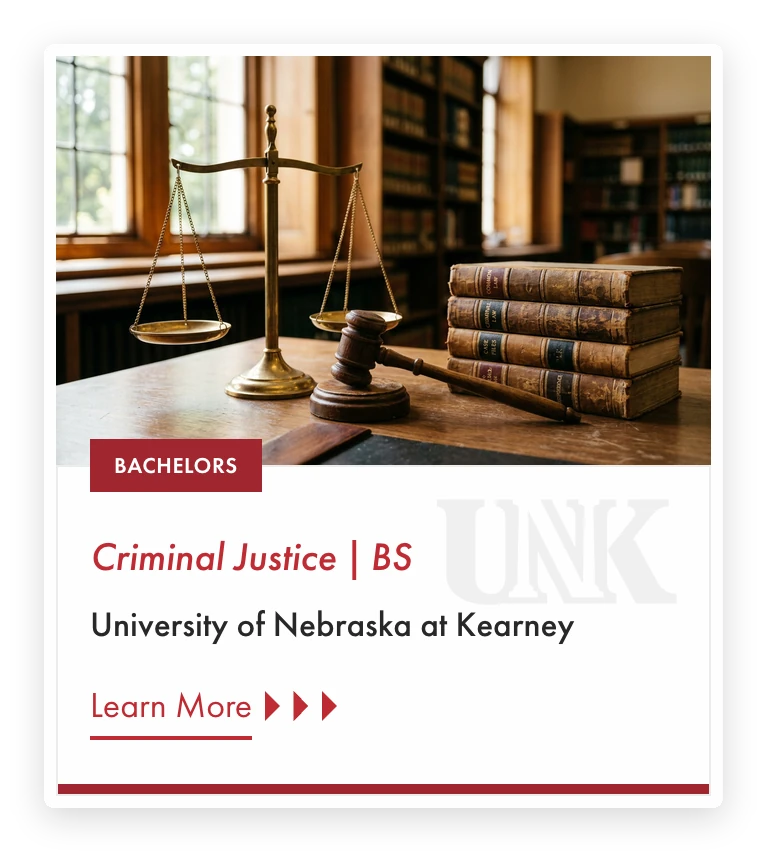
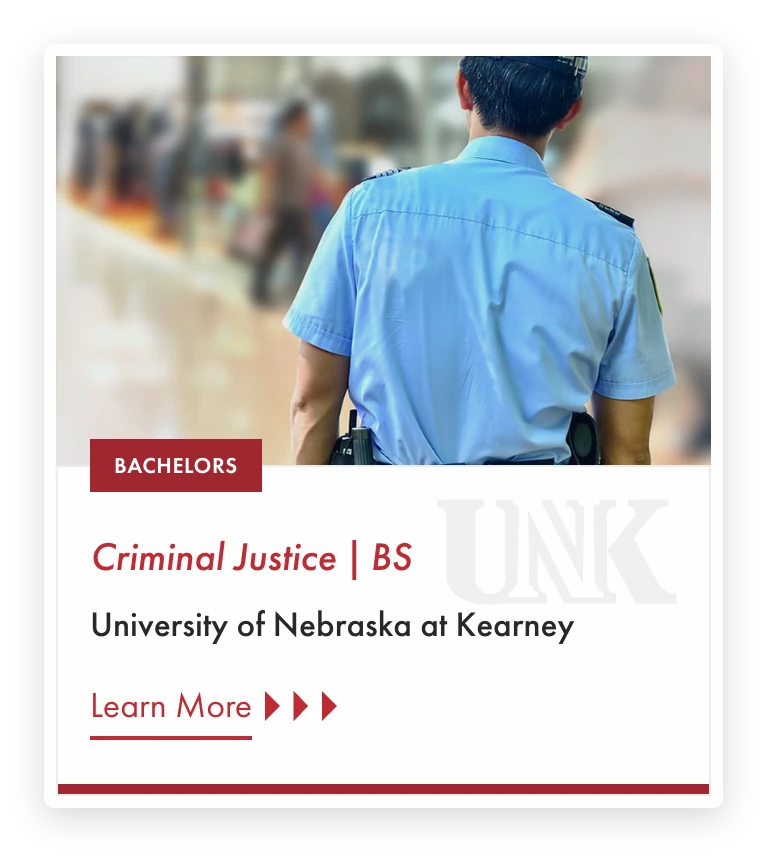
Rework the Helios home card, flatten card hovers, frame NUcleus apps figures
Homepage: the Helios card is now the docs window with the components card
overlapping it. Hero padding trimmed, card images enlarged on wide screens,
and every card takes the secondary-button hover instead of a shadow lift.

NUcleus: Figs 5 and 6 in browser windows, Fig 1 spacing tightened, the
brand-standards sentence revised, Fig 8 rebuilt as the Criminal Justice
before and after, and the course card uses the real program photo.

diff --git a/projects/portfolio/src/app/components/work/nucleus-case-study.html b/projects/portfolio/src/app/components/work/nucleus-case-study.html
@@ -82,7 +82,7 @@
               <span class="text-muted-foreground">Fig 1. UI Audit</span>
               <span class="text-right text-foreground">2017 Era</span>
             </div>
-            <div class="grid gap-4 bg-secondary p-4 md:p-6">
+            <div class="bg-secondary p-2 -space-y-4">
               <img src="assets/work/nucleus-inventory-blocks-a.webp" alt="UI inventory slide titled Blocks: campaign banner, icon block and donor quote treatments captured from university sites before NUcleus" class="block h-auto w-full" loading="lazy" decoding="async" width="1016" height="620" />
               <img src="assets/work/nucleus-inventory-blocks-b.webp" alt="UI inventory slide titled Blocks, continued: text-only headline and excerpt treatments, each styled differently" class="block h-auto w-full" loading="lazy" decoding="async" width="999" height="590" />
               <img src="assets/work/nucleus-inventory-color.webp" alt="UI inventory slide titled Color, listing eight background and seven text hex values found in the existing interface" class="block h-auto w-full" loading="lazy" decoding="async" width="1356" height="813" />
@@ -224,7 +224,7 @@
                     <img src="assets/work/nucleus-unl-shadow.webp" alt="University of Nebraska – Lincoln" class="w-full block" loading="lazy" decoding="async" width="1286" height="921" />
                   </div>
                   <div class="relative flex-1 overflow-hidden">
-                    <img src="assets/work/nucleus-course-card-shadow.webp" alt="Program card for the Criminal Justice BS at the University of Nebraska at Kearney: a generic photo of scales of justice and law books, a Bachelors tag on the seam and a Learn More link" class="absolute inset-y-0 left-1/2 block h-full w-auto max-w-none -translate-x-1/2" loading="lazy" decoding="async" width="767" height="861" />
+                    <img src="assets/work/nucleus-course-card-shadow.webp" alt="Program card for the Criminal Justice BS at the University of Nebraska at Kearney: a photo of a uniformed officer, a Bachelors tag on the seam and a Learn More link" class="absolute inset-y-0 left-1/2 block h-full w-auto max-w-none -translate-x-1/2" loading="lazy" decoding="async" width="767" height="861" />
                   </div>
                 </div>
                 <div class="overflow-hidden">
@@ -322,8 +322,8 @@
               <span class="text-muted-foreground">Fig 5. Component documentation</span>
               <span class="shrink-0 text-right text-foreground">NUcleus for Apps</span>
             </div>
-            <div class="bg-secondary p-4 sm:p-6">
-              <img src="assets/work/nucleus-apps/docs-datatable.webp" alt="NUcleus for Apps documentation for the Datatable component, showing version, description, an example and a contents list" class="box-border block h-auto w-full border border-plate-line bg-plate p-4 sm:p-7" loading="lazy" decoding="async" width="1600" height="798" />
+            <div class="bg-secondary p-4 md:p-6">
+              <img src="assets/work/nucleus-apps/docs-datatable-framed.webp" alt="NUcleus for Apps documentation for the Datatable component, showing version, description, an example and a contents list" class="block h-auto w-full" loading="lazy" decoding="async" width="1536" height="895" />
             </div>
             <figcaption class="border-t border-border bg-background px-4 py-3 font-mono text-label-lg leading-[1.6] text-muted-foreground">The Datatable entry at version 2.0.0, with its included and related components listed alongside.</figcaption>
           </figure>
@@ -333,9 +333,9 @@
               <span class="text-muted-foreground">Fig 6. Components in use</span>
               <span class="shrink-0 text-right text-foreground">Cards &amp; role switching</span>
             </div>
-            <div class="bg-secondary p-2 space-y-1.5">
-              <img src="assets/work/nucleus-apps/course-cards.webp" alt="Course card component shown in several states, with placeholder course data" class="w-full block" loading="lazy" decoding="async" width="1600" height="798" />
-              <img src="assets/work/nucleus-apps/switch-role.webp" alt="Role switching pattern, letting one account move between portals" class="w-full block" loading="lazy" decoding="async" width="1600" height="793" />
+            <div class="grid gap-4 bg-secondary p-4 md:p-6">
+              <img src="assets/work/nucleus-apps/course-cards-framed.webp" alt="Course card component shown in several states, with placeholder course data" class="block h-auto w-full" loading="lazy" decoding="async" width="1536" height="895" />
+              <img src="assets/work/nucleus-apps/switch-role-framed.webp" alt="Role switching pattern, letting one account move between portals" class="block h-auto w-full" loading="lazy" decoding="async" width="1536" height="895" />
             </div>
             <figcaption class="border-t border-border bg-background px-4 py-3 font-mono text-label-lg leading-[1.6] text-muted-foreground">Cards carry progress and actions in one unit. Role switching lets a single account move between portals without signing out.</figcaption>
           </figure>
@@ -390,7 +390,7 @@
           </div>
 
           <div class="max-w-[68ch] space-y-4 text-lead leading-[1.65] text-muted-foreground">
-            <p>Before NUcleus, departments often waited for central-team capacity or hired outside design and development help. The shared system gave marketing teams more control over their own sites while preserving access to guidance and support.</p>
+            <p>Before NUcleus, departments often waited for central-team capacity or hired outside design and development help. The shared system gave marketing teams more control over their own sites while preserving the University of Nebraska System’s overall brand standards.</p>
             <p>Accessibility requirements and fixes moved into shared components instead of being recreated independently by every site team. Improvements funded or requested through one engagement could strengthen the shared system and become available to every participating team.</p>
             <p>Nebraska Online provides the clearest example. I led its migration away from an external vendor and directed the front-end and shared-component work that moved it onto NUcleus. Ending the external arrangement removed recurring hosting and maintenance costs. Components developed through the migration returned to the shared collection.</p>
           </div>
@@ -402,10 +402,10 @@
               <span class="text-right text-foreground">Before &middot; After</span>
             </div>
             <div class="grid gap-4 bg-secondary p-4 md:grid-cols-2 md:p-6">
-              <img src="assets/work/nucleus-online-before-framed.webp" alt="Nebraska Online before the migration: a vendor-built home page with an Earn your degree online hero, program search and campus logos." class="block h-auto w-full" loading="lazy" decoding="async" width="1536" height="895" />
-              <img src="assets/work/nucleus-online-after-framed.webp" alt="Online programs after the move onto NUcleus: the University of Nebraska System header, degree level and area of study filters, and program cards with photo, degree tag and Learn More link." class="block h-auto w-full" loading="lazy" decoding="async" width="1536" height="895" />
+              <img src="assets/work/nucleus-online-before-framed.webp" alt="The Criminal Justice, BS program page on the vendor-built Nebraska Online site in 2021: a plain title block, four stat boxes and tabbed program content." class="block h-auto w-full" loading="lazy" decoding="async" width="1536" height="895" />
+              <img src="assets/work/nucleus-online-after-framed.webp" alt="The same Criminal Justice, BS page on NUcleus in 2022: the University of Nebraska System header, a full-width photo hero with a Bachelors tag and a section navigation bar." class="block h-auto w-full" loading="lazy" decoding="async" width="1536" height="895" />
             </div>
-            <figcaption class="border-t border-border bg-background px-4 py-3 font-mono text-label-lg leading-[1.6] text-muted-foreground">Nebraska Online on the external vendor's build, then its programs after the move onto NUcleus. The photography belongs to the University.</figcaption>
+            <figcaption class="border-t border-border bg-background px-4 py-3 font-mono text-label-lg leading-[1.6] text-muted-foreground">The same Criminal Justice, BS program page on the external vendor’s build in 2021 and on NUcleus in 2022. The photography belongs to the University.</figcaption>
           </figure>
 
           <div class="max-w-[68ch] space-y-4 text-lead leading-[1.65] text-muted-foreground">

diff --git a/projects/portfolio/src/styles.css b/projects/portfolio/src/styles.css
@@ -132,11 +132,6 @@
   --b7: #1D4F91;
   --b8: #143A6B;
   --b9: #0C2545;
-
-  /* Elevation. A hover lift, in place of changing an element's border colour.
-     On cream, a warm-black shadow reads on its own. Cards only, through the
-     `card-link` utility; buttons change colour instead. */
-  --lift: 0 12px 28px -12px rgb(20 20 18 / 0.30), 0 3px 8px -3px rgb(20 20 18 / 0.14);
 }
 
 .dark {
@@ -212,13 +207,6 @@
   --b7: #7FA9DE;
   --b8: #93B9E6;
   --b9: #A8C8EE;
-
-  /* A black shadow does almost nothing on a near-black surface, so the dark step
-     goes deeper and adds a hairline of light to pick out the top edge. The hairline
-     sits outside: most cards hold an image panel flush to the edge, and a child's
-     background paints over an inset shadow, so an inset ring would show on the
-     text half and vanish on the image. */
-  --lift: 0 16px 34px -14px rgb(0 0 0 / 0.8), 0 0 0 1px rgb(255 255 255 / 0.09);
 }
 
 @theme inline {
@@ -272,9 +260,6 @@
   --color-ink-4: var(--ink-4);
   --color-ink-5: var(--ink-5);
   --color-sketch: var(--sketch);
-  --shadow-lift: var(--lift);
-  /* Easing for the lift. Decelerating, so the rise arrives rather than stops. */
-  --ease-lift: cubic-bezier(0.22, 1, 0.36, 1);
   /* The one radius this site uses. Enough to take the blade off a corner without
      reading as a rounded UI. Panels and buttons take it; hairline rules and
      full-bleed bands stay square. */
@@ -368,7 +353,7 @@
 /* ─────────────────────────────────────────────────────────────
    Interactive patterns
    Every clickable thing on the site is one of these, so the hover
-   language stays small: buttons change colour, cards lift, links
+   language stays small: secondary buttons and cards take a green tint, links
    firm up their underline. Layout, spacing and the focus ring's
    offset colour stay at the call site.
    ───────────────────────────────────────────────────────────── */
@@ -382,9 +367,14 @@
   @apply inline-flex items-center justify-center gap-2 rounded-edge border border-border bg-card px-6 py-3.5 text-dense text-foreground transition-colors duration-200 hover:border-primary/50 hover:bg-primary/5;
 }
 
-/* The only element that rises. Reserved for a card that opens something. */
+/* A card that opens something. Flat, with the same hover as `btn-secondary`: a half-green
+   border and a 5% green tint. The tint is mixed into the card's own surface rather than
+   laid over it see-through, so a card on a darker band stays light. A card on another
+   surface sets `--card-surface`. */
 @utility card-link {
-  @apply overflow-hidden rounded-edge border border-border outline-none transition duration-300 ease-lift hover:shadow-lift focus-visible:border-primary focus-visible:ring-2 focus-visible:ring-primary focus-visible:ring-offset-4 motion-safe:hover:-translate-y-1;
+  --card-surface: var(--card);
+  @apply overflow-hidden rounded-edge border border-border outline-none transition-colors duration-200 hover:border-primary/50 focus-visible:border-primary focus-visible:ring-2 focus-visible:ring-primary focus-visible:ring-offset-4;
+  &:hover { background-color: color-mix(in oklab, var(--primary) 5%, var(--card-surface)); }
 }
 
 /* A link inside running text. Green, with a faint underline that firms up on hover. */

diff --git a/projects/portfolio/src/app/components/home/home.html b/projects/portfolio/src/app/components/home/home.html
@@ -1,7 +1,7 @@
 <div>
 
   <!-- ── Hero ──────────────────────────────────────────────────── -->
-  <section class="mx-auto max-w-6xl px-6 pb-4 pt-6 md:pb-24 md:pt-24 lg:px-12">
+  <section class="mx-auto max-w-6xl px-6 pb-4 pt-6 md:pb-20 md:pt-20 lg:px-12">
     <div class="flex flex-col gap-3">
       <span class="font-mono text-label-lg uppercase tracking-[0.08em] text-muted-foreground">Well, hello. I&rsquo;m Holly.</span>
       <h1 class="max-w-[22ch] font-serif text-4xl font-normal leading-[1.12] tracking-[-0.02em] text-foreground md:text-5xl">
@@ -45,11 +45,11 @@
       @for (project of published; track project.id) {
         <a
           [routerLink]="project.link"
-          class="card-link group grid bg-card focus-visible:ring-offset-background md:h-72 md:grid-cols-[3fr_2fr]"
+          class="card-link group grid bg-card focus-visible:ring-offset-background md:h-72 md:grid-cols-[3fr_2fr] xl:grid-cols-[11fr_9fr]"
         >
           <div class="flex flex-col justify-center gap-1.5 p-5 md:p-6 lg:p-8">
             <span class="font-mono text-label-sm uppercase tracking-[0.08em] text-muted-foreground">{{ project.category }}</span>
-            <!-- The lift carries the hover; nothing in the card changes colour. -->
+            <!-- Hover tints the card like the secondary button; the text never changes colour. -->
             <h3 class="font-serif text-2xl font-normal leading-[1.1] text-foreground md:text-name">{{ project.title }}</h3>
             <p class="mt-1 max-w-[52ch] text-card leading-[1.55] text-fg-soft">{{ project.outcome }}</p>
             <p class="pt-3 font-mono text-label-sm leading-[1.6] text-muted-foreground/80">{{ project.capabilities.join(' · ') }}</p>
@@ -59,7 +59,7 @@
                between the two: the panel already changes tone, which is edge enough. -->
           <div
             aria-hidden="true"
-            class="order-first overflow-hidden p-6 md:order-none md:h-full"
+            class="order-first overflow-hidden p-6 md:order-none md:h-full md:p-3"
             [class]="framed(project) ? 'aspect-[16/10] md:aspect-auto' : 'aspect-[16/10] bg-secondary md:aspect-auto'"
           >
             @switch (project.visual.kind) {
@@ -120,8 +120,8 @@
     region that was already visually continuous.
 
     Cards are `background` on a `secondary` band, separated by tone alone: lighter
-    than the band in light mode, darker in dark mode, and no shadow either way until
-    hover. Each card is a link to the recommendations list, so no callout is needed.
+    than the band in light mode, darker in dark mode, and no shadow either way, hover
+    included. Each card is a link to the recommendations list, so no callout is needed.
   -->
   <section class="bg-secondary text-foreground">
     <div class="mx-auto max-w-6xl px-6 py-16 lg:px-12 lg:py-20">
@@ -143,7 +143,7 @@
               target="_blank"
               rel="noopener noreferrer"
               [attr.aria-label]="item.name + ', recommendation on LinkedIn'"
-              class="card-link relative flex h-full bg-background p-7 focus-visible:ring-offset-secondary"
+              class="card-link relative flex h-full bg-background p-7 [--card-surface:var(--background)] focus-visible:ring-offset-secondary"
             >
               <figure class="relative flex h-full w-full flex-col gap-5">
                 <!--

diff --git a/projects/portfolio/src/app/components/home/home.ts b/projects/portfolio/src/app/components/home/home.ts
@@ -42,7 +42,7 @@ export class Home {
       link: '/work/helios',
       visual: {
         kind: 'image',
-        src: 'assets/work/home/helios-dropdown-card.webp',
+        src: 'assets/work/home/helios-hero-card.webp',
         width: 1536,
         height: 895,
         fit: 'framed',
